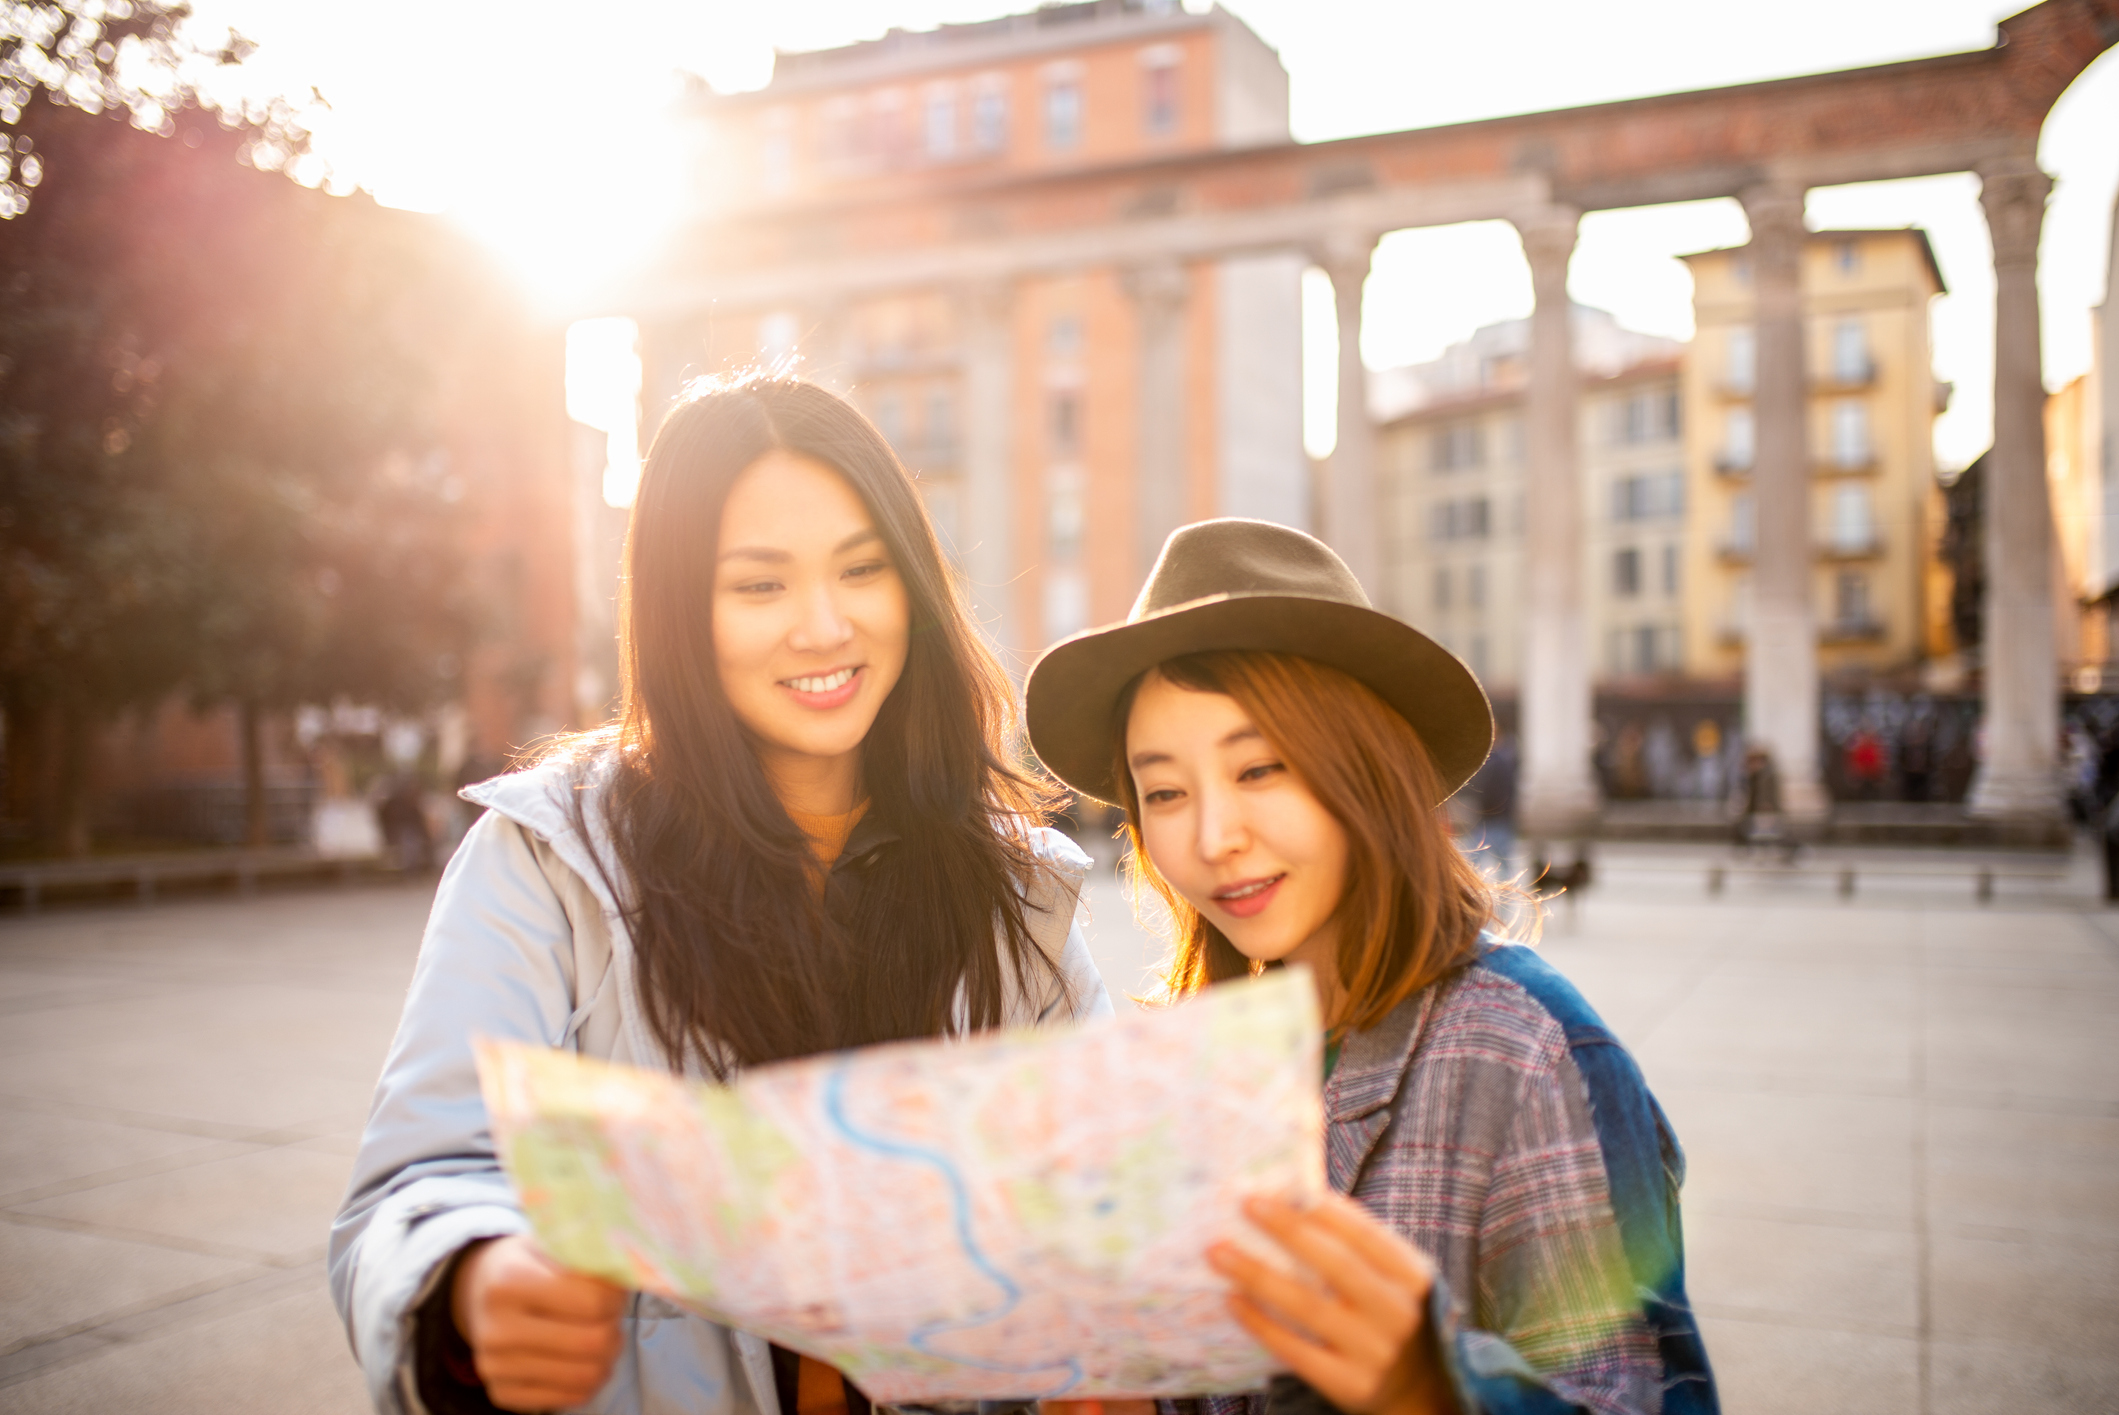
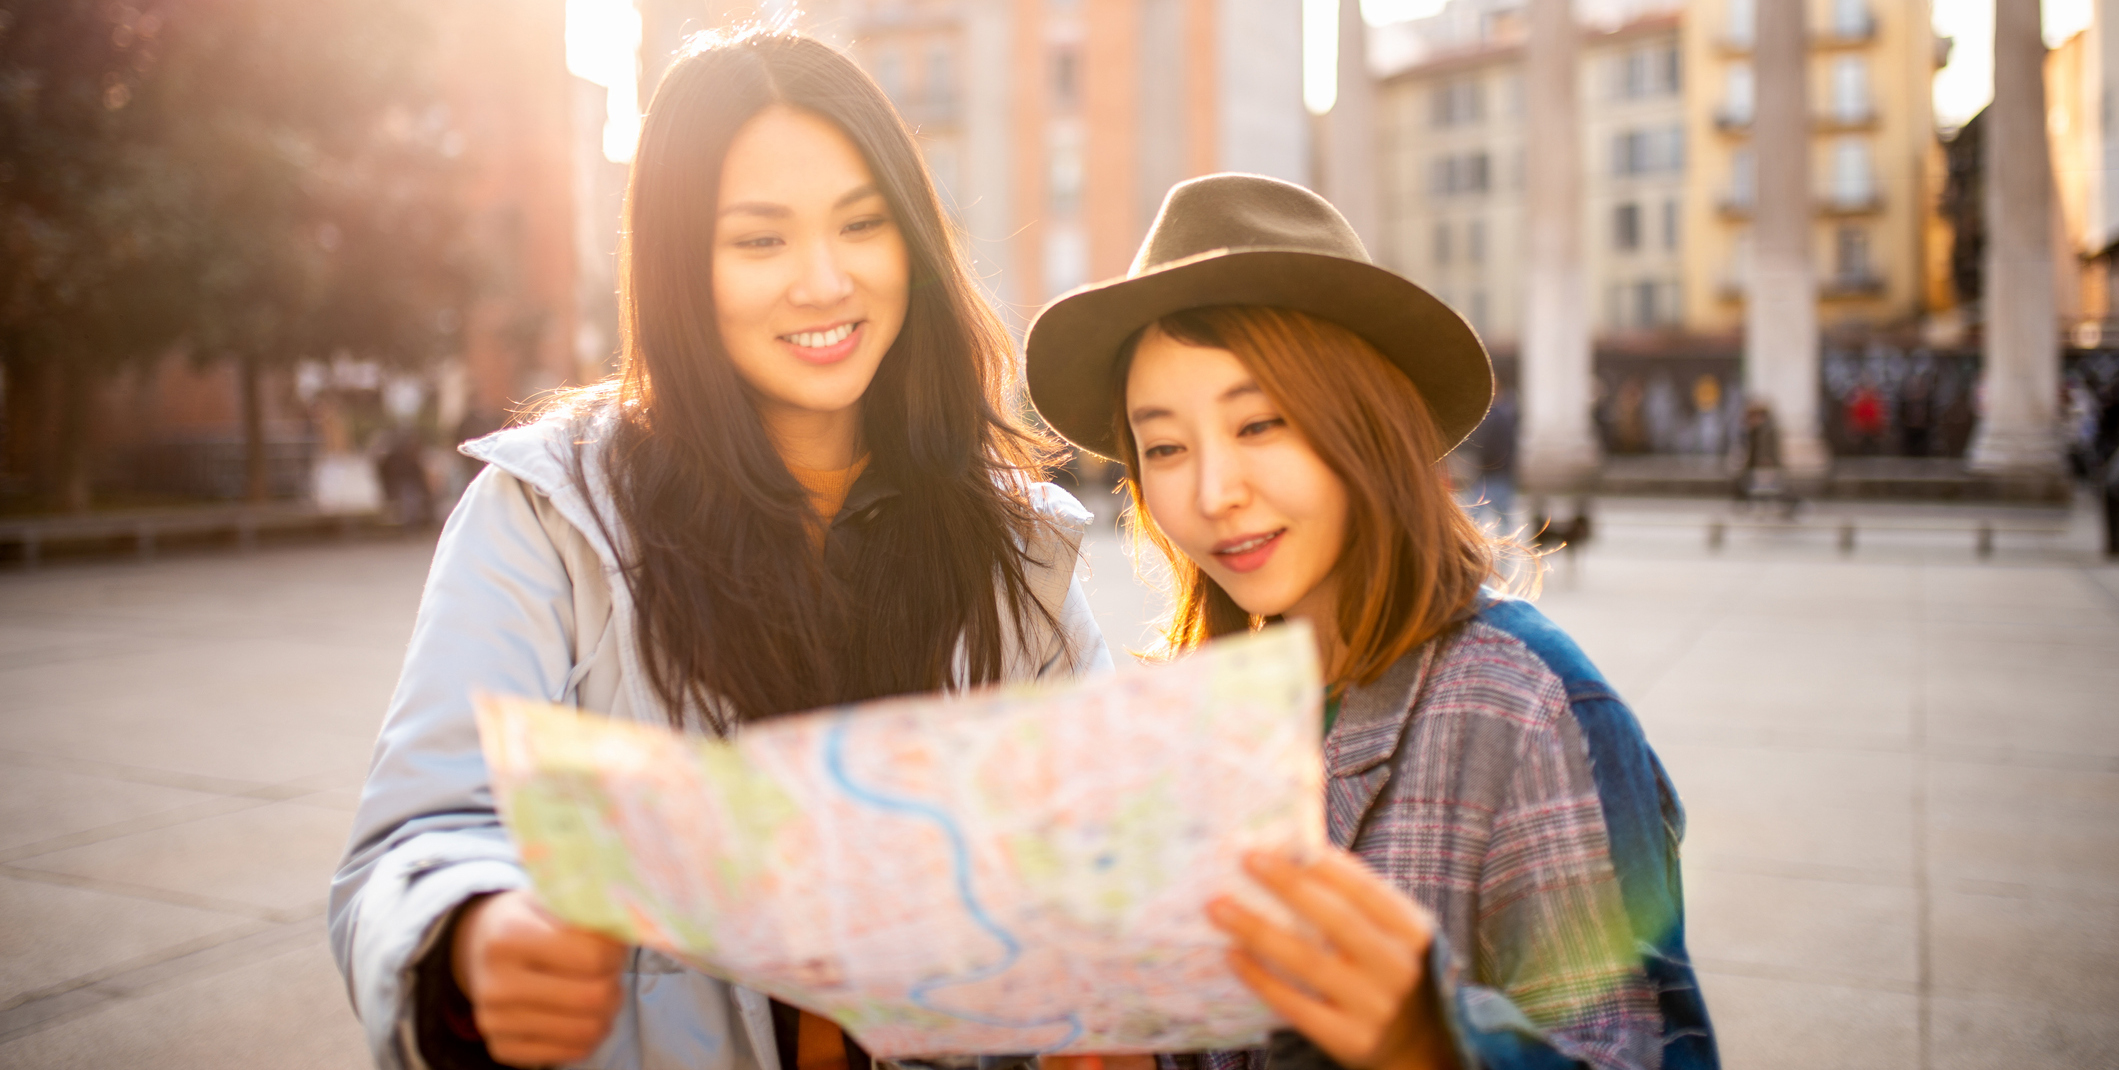
styling complete

diff --git a/wanderlust/src/Components/Carousel/SimpleSlider.js b/wanderlust/src/Components/Carousel/SimpleSlider.js
@@ -71,8 +71,8 @@ const SimpleSlider = (props) => {
       activeIndex={activeIndex}
       next={next}
       previous={previous}
-      width="100% vw"
-      height="100% vh"
+      width="100 vw"
+      height="100 vh"
     >
       <CarouselIndicators items={items} activeIndex={activeIndex} onClickHandler={goToIndex} />
       {slides}

diff --git a/wanderlust/src/Components/Landing/Landing.css b/wanderlust/src/Components/Landing/Landing.css
@@ -28,9 +28,15 @@ button{
         height: 50px;
     }
     
+    
+    input.searchBar::placeholder{
+        padding: 2%;
+        font-size: 1.3rem;
+    }
+
     .carousel.slide{
         z-index: -1;
-        margin-top: -30px;
+        /* margin-top: -30px; */
         height: 90vh;
     }
 

diff --git a/wanderlust/src/Components/Carousel/Slider.css b/wanderlust/src/Components/Carousel/Slider.css
@@ -2,3 +2,8 @@
   width: 100% vw;
   height: 100% vh;
 }
+
+img {
+  width: 120%;
+  vertical-align: bottom;
+}
